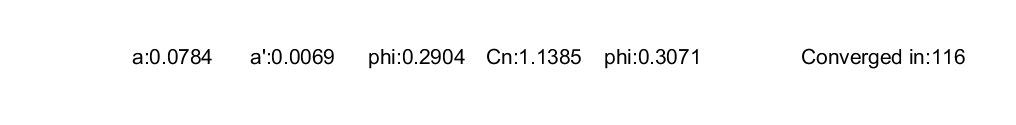
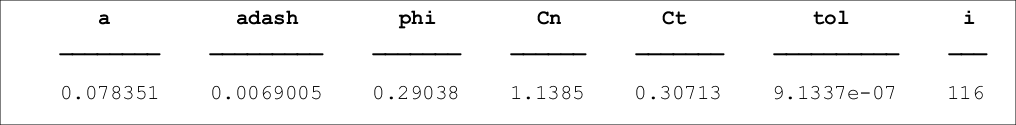
Move to matlab table format in status imgs.

diff --git a/main.m b/main.m
@@ -1,5 +1,6 @@
 %%Main script for WindTurbine Problem
 %---System Init---%
+close all
 % Add paths
 p=genpath('lib');addpath(p);p=genpath('status');addpath(p);
 
@@ -31,18 +32,23 @@ init_theta=0.0733;
 init_R=19.5;
 
 [a, adash, phi, Cn, Ct, tol, i]=WTInducedCalcs(init_a,init_adash,init_V0,w,init_R,init_theta,1,3);
-table(a, adash, phi, Cn, Ct, tol, i);
+s1singletable=table(a, adash, phi, Cn, Ct, tol, i);
 
 %Create figure for display.
-f = figure('visible','on');
+f = figure('visible','off');
 axis off
 hold on
 set(f, 'Position', [500 500 650 80])
-text(0,0.5, strcat('a: ', num2str(round(a,4))));
-text(0.15,0.5, strcat('a'': ', num2str(round(adash,4))));
-text(0.3,0.5, strcat('phi: ', num2str(round(phi,4))));
-text(0.45,0.5, strcat('Cn: ', num2str(round(Cn,4))));
-text(0.6,0.5, strcat('phi: ', num2str(round(Ct,4))));
-text(0.85,0.5, strcat('Converged in: ', num2str(i)));
+% Get the table in string form.
+TString = evalc('disp(s1singletable)');
+% Use TeX Markup for bold formatting and underscores.
+TString = strrep(TString,'<strong>','\bf');
+TString = strrep(TString,'</strong>','\rm');
+TString = strrep(TString,'_','\_');
+% Get a fixed-width font.
+FixedWidth = get(0,'FixedWidthFontName');
+% Output the table using the annotation command.
+annotation(gcf,'Textbox','String',TString,'Interpreter','Tex',...
+    'FontName',FixedWidth,'Units','Normalized','Position',[0 0 1 1]);
 saveas(f,'status/s1_singlevalidation.png');
 
